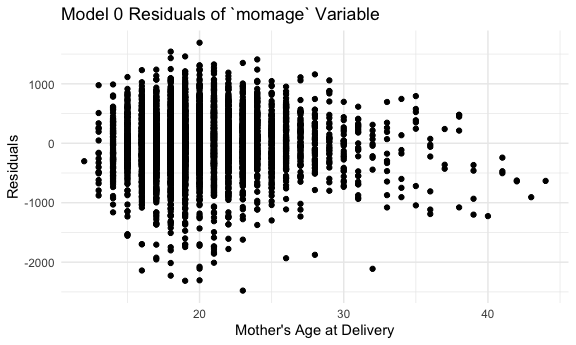
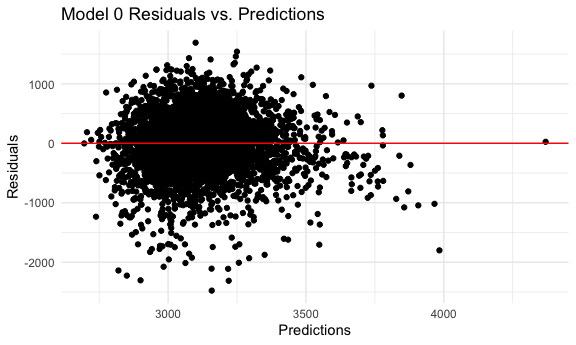
looking over the homework instructions and realized i did the residual and prediciton plotting wrong for problem 2. so i went in and fixed that and then added some last minute refining to my comments.

diff --git a/p8105_hw_6.md b/p8105_hw_6.md
@@ -1,6 +1,6 @@
 P8105 Homework 6 - UNI: gvs2113
 ================
-2023-11-20
+2023-12-01
 
 ## Problem 1
 
@@ -326,79 +326,29 @@ mother’s age and weight.
 **Predictors and Residuals**
 
 ``` r
-birth_data |> 
+res_pred_bwd = 
+  birth_data |> 
   modelr::add_residuals(model_0) |> 
-  ggplot(aes(x = momage, y = resid)) + geom_point() + 
+  modelr::add_predictions(model_0)
+  
+  
+  ggplot(data = res_pred_bwd, aes(x = pred, y = resid)) + geom_point() + 
+    geom_hline(yintercept = 0, color = "red") +
   labs(
-    title = "Model 0 Residuals of `momage` Variable",
-    x = "Mother's Age at Delivery",
+    title = "Model 0 Residuals vs. Predictions",
+    x = "Predictions",
     y = "Residuals"
   )
 ```
 
 <img src="p8105_hw_6_files/figure-gfm/unnamed-chunk-14-1.png" width="90%" />
 
-Since age is a distinct numeric variable, the scatter plot is organized
-on vertical lines which represent whole age numbers. There is a wide
-spread of residuals between 15-25 years old and then the spread narrows
-and becomes more sparse after 30 years old.
-
-``` r
-birth_data |> 
-  modelr::add_residuals(model_0) |> 
-  ggplot(aes(x = delwt, y = resid)) + geom_point() + 
-  labs(
-    title = "Model 0 Residuals of `delwt` Variable",
-    x = "Mother's Weight at Delivery",
-    y = "Residuals"
-  )
-```
-
-<img src="p8105_hw_6_files/figure-gfm/unnamed-chunk-15-1.png" width="90%" />
-
-Since weight is a continuous numeric variable, the scatter plot is less
-structured than the one above. The largest density and spread of
-residuals is between 100 and 200 lbs and then becomes more sparse and
-mostly negative residuals after 200 lbs.
-
-``` r
-birth_data |>   
-  modelr::add_predictions(model_0) |>
-  ggplot(aes(x = momage, y = pred)) + geom_point() + 
-  labs(
-    title = "Model 0 Predictions of `momage` Variable",
-    x = "Mother's Age at Delivery",
-    y = "Predictions"
-  )
-```
-
-<img src="p8105_hw_6_files/figure-gfm/unnamed-chunk-16-1.png" width="90%" />
-
-Since we are again assessing the age variable, this scatter plot is
-structured along vertical lines for each whole number age. The
-predictions trend upward as mothers age increases, but also decreases in
-density and spread. All predictions remain under 4000 except for one
-outlier point at 23 years old with a predicted value of around 4750.
-
-``` r
-birth_data |>   
-  modelr::add_predictions(model_0) |>
-  ggplot(aes(x = delwt, y = pred)) + geom_point() + 
-  labs(
-    title = "Model 0 Predictions of `delwt` Variable",
-    x = "Mother's Weight at Delivery",
-    y = "Predictions"
-  )
-```
-
-<img src="p8105_hw_6_files/figure-gfm/unnamed-chunk-17-1.png" width="90%" />
-
-The predicitions for mother’s delivery weight shows a strong positive
-linear relationship. Like the plot directly above, the density and
-spread of the predictions decrease as the x-axis (weight) variable
-increases. Also, this plot is consistent with the residuals since it
-also has the largest density and spread between 100-200 lbs. The two
-points with the highest predicted value seem to be outliers.
+The above plot shows the distribution of residuals vs. prediction values
+for the hypothesized birthwieght linear regression model (Model 0).
+There is a large concentration of values around the y=0 intercept line
+and radiating out in a circular distribution around the prediction value
+of 3150. There is more spread for negative residuals and one large
+outlier among the predictions with a value of around 4750.
 
 **Other models to compare**
 
@@ -474,7 +424,7 @@ cv_df |>
   )
 ```
 
-<img src="p8105_hw_6_files/figure-gfm/unnamed-chunk-20-1.png" width="90%" />
+<img src="p8105_hw_6_files/figure-gfm/unnamed-chunk-17-1.png" width="90%" />
 
 The root mean square error for each model after 5000 bootstraps is
 pictured above in side-by-side violin plots. The hypothesized model has
